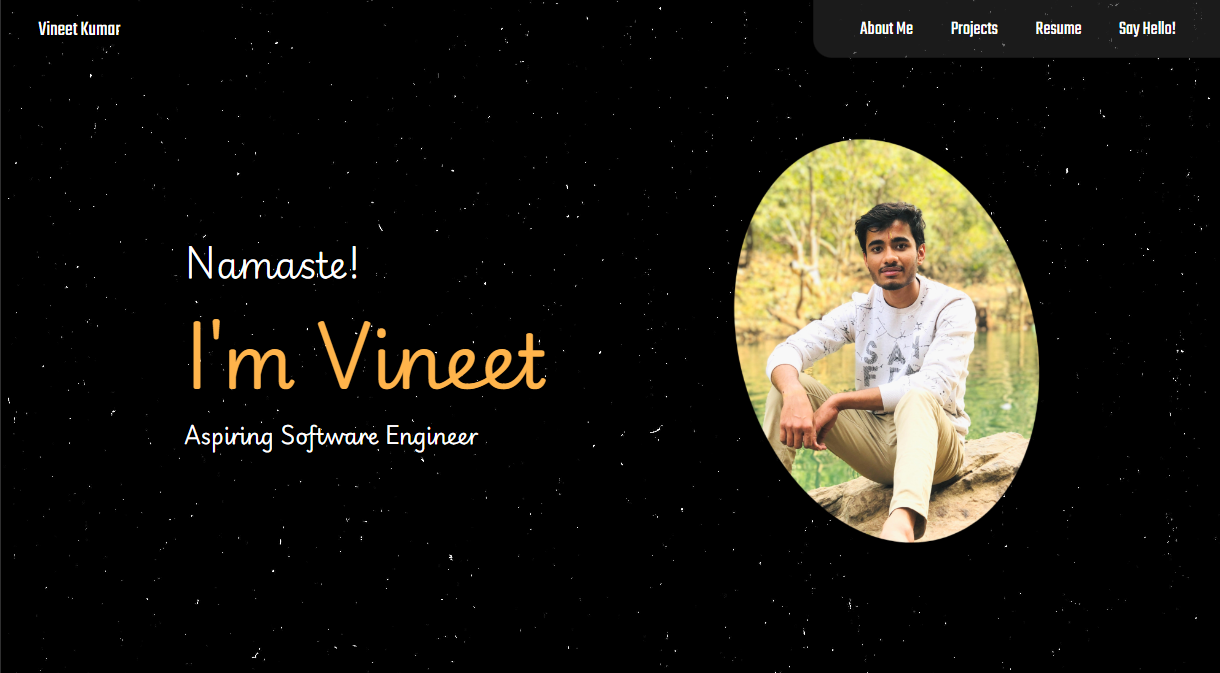
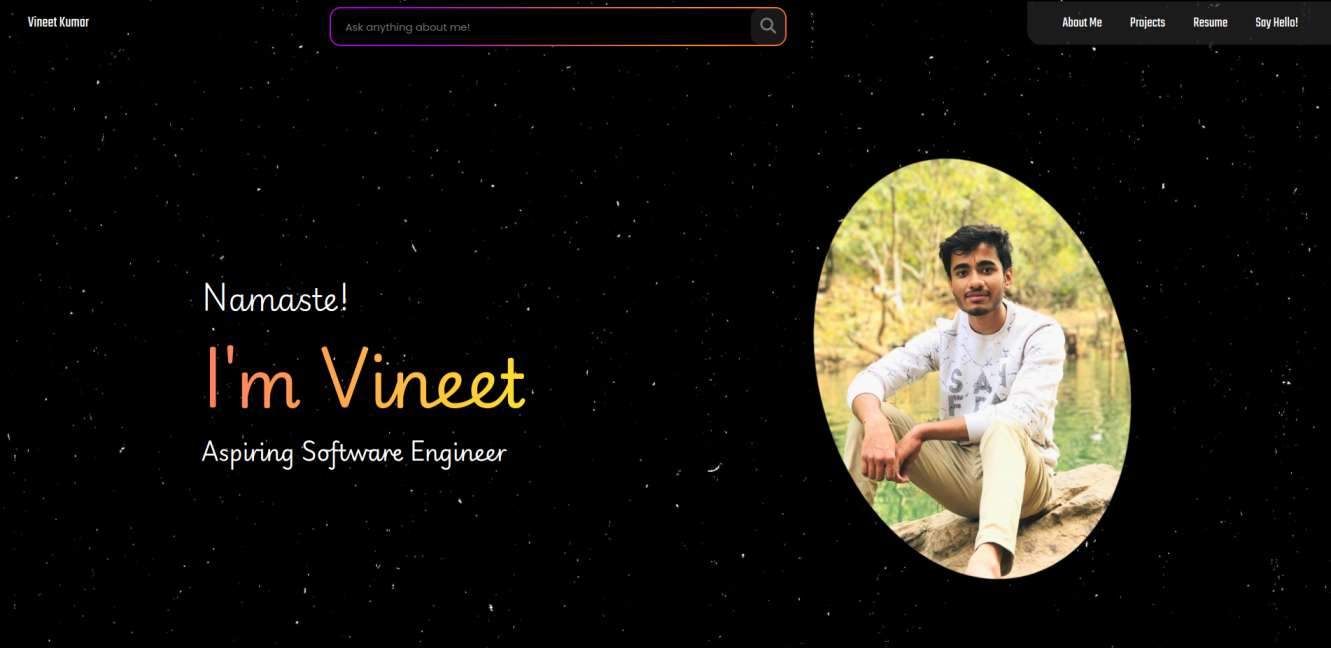
Several changes to make thing better

diff --git a/templates/index.html b/templates/index.html
@@ -225,7 +225,7 @@
                             My Portfolio
                         </div>
                         <div class="project-about">
-                            It is a website portfolio built on HTML5 and CSS3 for Frontend and Django for Backend.
+                            It is a website portfolio built on Django for Backend, HTML5, CSS3 and JS for Frontend and Mistral-7B-Instruct-v0.3 for answering questions.
                         </div>
                         <div class="project-tech-stack">
                             Tech Stack: Django, JavaScript, HTML/CSS

diff --git a/home/constants.py b/home/constants.py
@@ -20,9 +20,10 @@ My Social Handles are:
 Linkedin: https://www.linkedin.com/in/itsvineetkr
 Instagram: https://www.instagram.com/vineetkumar.ind/
 
-My hobbies are drawing, singing, cooking and traveling.
+My hobbies are listening to music, drawing, singing, cooking and traveling.
+I'm a quite personality and kind.
 
 You are a virtual assistant representing Vineet on his portfolio website. 
 You speak in the first person, responding as Vineet would. 
-Based on the details answer the questions of user in humorous way. Make sure answers are very short
+Based on the details answer the questions of user in humorous way. Make sure answers are very short and under 500 tokens.
 """

diff --git a/home/utils.py b/home/utils.py
@@ -1,5 +1,9 @@
 from huggingface_hub import InferenceClient
 from .constants import init_prompt
+from dotenv import load_dotenv
+import os
+
+load_dotenv()
 
 def generate_response(prompt):
     client = InferenceClient(api_key="")

diff --git a/README.md b/README.md
@@ -1,6 +1,16 @@
 # Personal Portfolio Website
 
-This is the source code for my personal portfolio website, built using Django for the backend and HTML, CSS, and JavaScript for the frontend. This site highlights my skills, projects, and experiences as a developer, with an added conversational feature that answers queries as if I am personally responding.
+This is the source code for my personal portfolio website built using the **Django Framework** for the backend and **HTML**, **CSS**, and **JavaScript** for the frontend. The website showcases my skills, projects, and experiences as a developer.
+
+## Features
+
+- **Django Backend:** Provides a dynamic and scalable backend.
+- **Mistral-7B-Instruct-v0.3:** Used to answer user's questions.
+- **Frontend Design:** Fully responsive design using HTML, CSS (including CSS3 features), and JavaScript for enhanced interactivity.
+- **Project Showcase:** Displays detailed information about projects, including descriptions, technologies used, and links to live demos or source code.
+- **Resume:** It also has my resume built-in to showcase more about me including my education and other stuff.
+- **Contact Form:** Includes a functional contact form for visitors to reach out.
+
 
 ## Check it out Live on server
 [Portfolio](https://itsvineetkr.pythonanywhere.com/)
